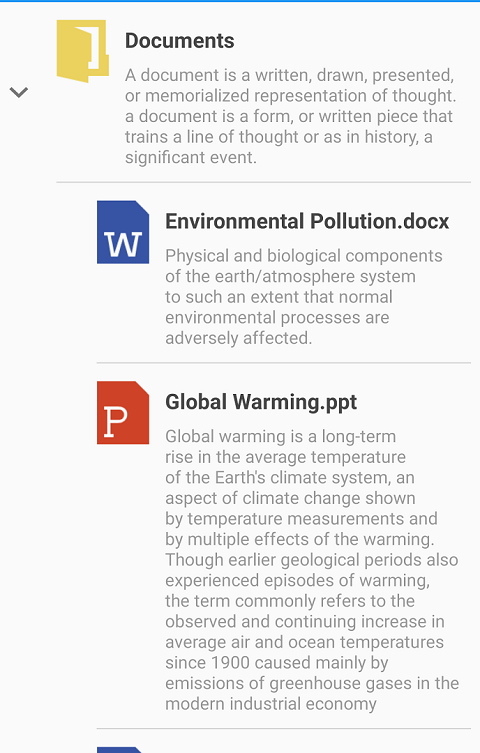
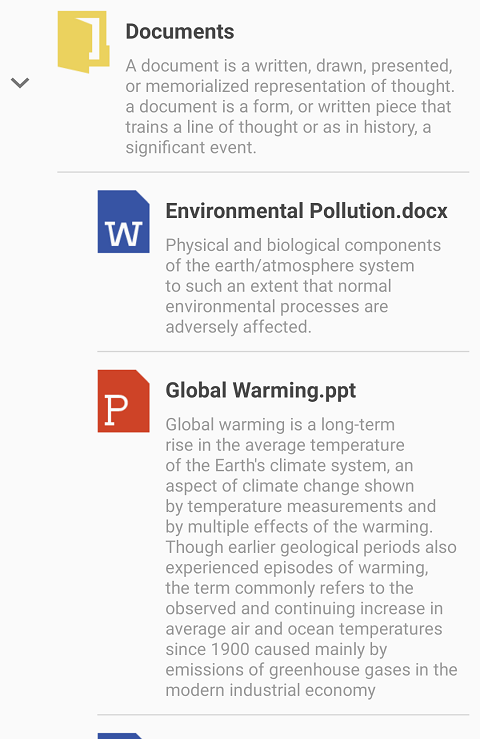
image size error resolved

diff --git a/xamarin-toc.html b/xamarin-toc.html
@@ -1041,6 +1041,7 @@
             <li><a href="/xamarin/sftreeview/MVVM">MVVM</a></li>
             <li><a href="/xamarin/sftreeview/load-on-demand">Load on Demand</a></li>
             <li><a href="/xamarin/sftreeview/right-to-left">Right to left(RTL)</a></li>		
+            <li><a href="/xamarin/sftreeview/Item-height-customization">Item Height Customization</a></li>		
 		</ul>
     </li>
 	   

diff --git a/Xamarin/SfTreeView/Scrolling.md b/Xamarin/SfTreeView/Scrolling.md
@@ -36,7 +36,7 @@ You can also download the entire source code of this demo from [here](http://www
 
  When scroll to the item which is in collapsed state, TreeView expands the particular node and scroll to the specified item by setting the `canExpand` parameter of `BringIntoView` method to `true`.
 
-#### Scrolls the item into spcified position
+#### Scrolls the item into specified position
 
 The SfTreeView allows to position the scrolled item in the view by passing `ScrollToPosition` as parameter to the [BringIntoView](https://help.syncfusion.com/cr/xamarin/Syncfusion.SfTreeView.XForms~Syncfusion.XForms.TreeView.SfTreeView~BringIntoView.html) methods. The scrolled item can take either of the four positions as explained below. The default position is Start.
 
